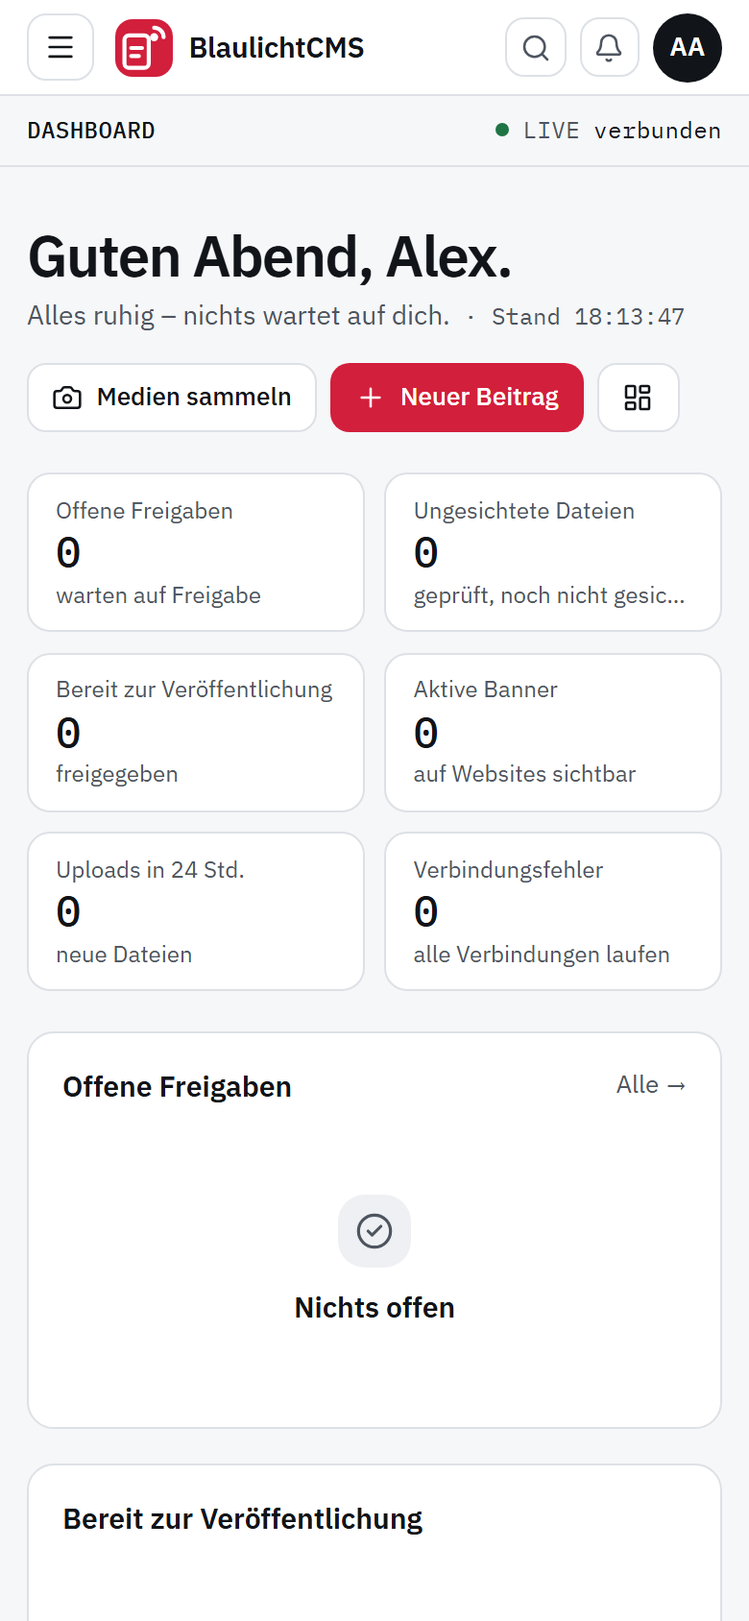
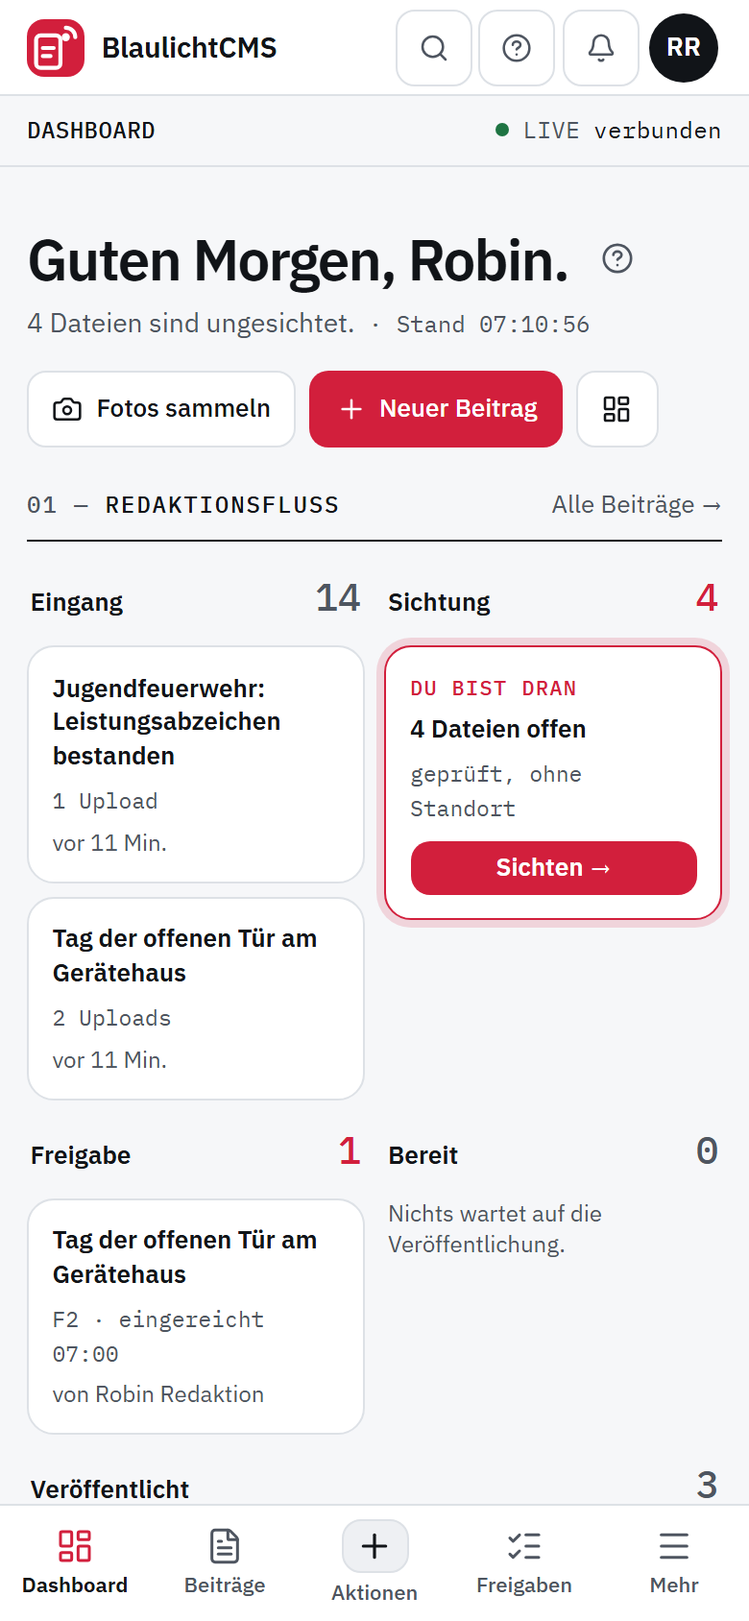
Version 0.7.0
Release mit neuem Docker-Image (compose.yaml geändert, #238): MIN_IMAGE_VERSION 0.7.0.
Inhalt: Prüfung von Stabilität, Sicherheit und Datenschutz (#228–#249) und Überarbeitung der
Bedienung (#250–#272) – Navigation nach Aufgaben, Freigaben-Liste, Suche, Hilfe je Seite,
Dashboard je Rolle, Checkliste „BlaulichtCMS startklar“, Einstellungen auf Unterseiten,
untere Leiste am Handy, einheitliche Listen und Formulare.

- Versionshinweise release-notes/v0.7.0.md mit Anleitung für das Image-Update über den
  Update-Helfer (Einstellungen → Updates, „Image-Update auf 0.7.0 anstoßen“) und Liste
  „Nach dem Update“.
- README: Funktionen ergänzt (Datenschutz-Prüfung in Einsatzliste und Bildvorlagen,
  Zwei-Faktor-Pflicht sofort, Zugangsdaten an ihr Ziel gebunden, Löschfristen, Leerzustände,
  Akzent, Fenstertitel), Badge 0.7.0, Einblicke mit neuen Bildern (Freigaben, Suche,
  Einstellungen, startklar, Handy-Dashboard, Stichwörter & Regeln); alle Bilder der
  Oberfläche aus einer Testinstanz mit fiktiven Daten neu aufgenommen. WordPress-Seiten und
  Warnentwurf-PDF unverändert (Bridge und PDF ohne Änderung).
- Screenshots des Installationsdialogs (PWA) mit der neuen Navigation, gleiche Größen.
- docs/technik.md „Teststand und Grenzen“: rund 780 Server-Tests, Browsertests, lokaler
  Release-Check (Fokus-Check aller Ansichten, dunkler Modus), Stand des Update-Helfers,
  internes Presse-Postfach.
- build-release: Installationszeile nennt bei neuem Image zuerst den Update-Helfer.

diff --git a/release-notes/v0.7.0.md b/release-notes/v0.7.0.md
@@ -1,0 +1,200 @@
+## BlaulichtCMS 0.7.0
+
+Großes Bedienungs- und Pflegeupdate mit **neuem Docker-Image**: neue Navigation nach Aufgaben, eine Freigaben-Liste
+für alle Arten, Suche über alles, Dashboard je Rolle, Checkliste „BlaulichtCMS startklar“, Einstellungen auf
+Unterseiten und eine untere Leiste am Handy – dazu Korrekturen aus einer Prüfung von Stabilität, Sicherheit und
+Datenschutz. Mit dem in 0.6.x eingerichteten **Update-Helfer** wird das Update in der App angestoßen (Anleitung unten).
+
+Beim Start werden die Datenbank-Migrationen 180, 181, 182, 185, 186, 190, 191, 200, 210, 225 und 230 automatisch
+angewendet; Daten, Konten und Rollen bleiben erhalten. Keine neuen Rechte (weiter 101 in 15 Bereichen, einige
+Bezeichnungen sind an die neuen Begriffe angepasst), BlaulichtCMS Bridge unverändert 0.9.1.
+
+### Navigation, Suche und Hilfe
+
+- **Sechs Bereiche nach Aufgaben** statt der bisherigen Gliederung (der Bereich „Kanäle“ ist aufgelöst):
+  - *Übersicht* – Dashboard, Freigaben, Benachrichtigungen, Reichweite, Aktivitäten
+  - *Redaktion* – Beiträge, Medien, Kalender, Einsatzliste, Banner, Designvorlagen, Quellen
+  - *Presse* – Presseanfragen, Pressemitteilungen, Presseverteiler, Textbausteine (jetzt eine eigene Seite)
+  - *Warnungen* – Warnentwürfe, Amtliche Warnungen
+  - *Einrichtung* – Websites, Verbindungen, Workflows (Reiter Workflows · Auslöser · Aktionen), Beitragsvorlagen,
+    Stichwörter & Regeln, Presse-Postfach, Upload-Seite
+  - *Verwaltung* – Benutzer und Rollen, Systemstatus, Medienverwaltung, Protokolle, Datenschutzanfragen, Einstellungen
+
+  Frühere Adressen (Lesezeichen, Links in älteren Benachrichtigungen und Mails) leiten samt Unterseite und Anker weiter.
+- **Suche mit `Strg` + `K`** (oder das Suchfeld in der Kopfzeile): Seiten, Schnellaktionen und Inhalte aller Bereiche,
+  die das Konto lesen darf – Beiträge, Sammlungen, Presseanfragen, Einsätze, Termine, Warnentwürfe, Personen –, dazu
+  einzelne Einstellungen und Hilfe-Abschnitte. Vorgangsnummern wie `P-2026-0001` springen direkt zum Vorgang.
+- **Hilfe an jeder Seite:** „?“ am Seitentitel mit Kurzbeschreibung und Link ins passende Kapitel, Hilfe-Knopf in der
+  Kopfzeile, Taste `?`. Neues Kapitel *Systemstatus, Protokolle und Aktivitäten* (32 Kapitel), verbindliches Glossar
+  unter *Hilfe → Begriffe*.
+- **Einheitliche Begriffe:** „Website“ und „soziale Netzwerke“ statt „Kanäle“, „Auslöser“ und „Aktionen“ statt
+  „Eingänge“ und „Ausgänge“, „Upload-Link“ und „Fotos sammeln“.
+- **Barrierefreiheit:** eigener Fenstertitel je Seite, genau eine Hauptüberschrift, Pflichtfelder auch für Screenreader
+  gekennzeichnet. Rot steht nur noch für die Hauptaktion und Handlungsbedarf – Auswahl, Schritte und Ansichtsschalter
+  sind neutral.
+
+### Übersicht: Freigaben, Benachrichtigungen, Dashboard
+
+- **Eine Freigaben-Liste für alle Arten** unter *Übersicht → Freigaben*: Beiträge, Banner, Einsatzliste, Warnentwürfe,
+  Antworten an die Presse und Freigaben aus Workflows – nur Arten, für die das Konto freigeben darf, mit Filter nach Art
+  und Sortierung. Was das Vier-Augen-Prinzip sperrt, steht ausgegraut mit Grund dabei. „Prüfen →“ öffnet die gewohnte
+  Prüfansicht. Darunter **Bereit zur Veröffentlichung**: Freigegebenes, das noch veröffentlicht bzw. versandt werden
+  muss. Der Zähler am Menüpunkt zählt beides.
+- **Eingereichte Banner melden sich jetzt bei der Freigabe** (Glocke, Push, E-Mail) wie Beiträge und Einsätze.
+- **Benachrichtigungen gebündelt und erledigt:** eine Meldung je Art („14 Einträge warten auf Freigabe“), der Link führt
+  genau zum Vorgang bzw. zur gefilterten Liste, nach der Entscheidung zählt die Meldung bei niemandem mehr als
+  ungelesen. Welche Arten per Glocke, Push oder E-Mail kommen, wählt jede Person in einer Tabelle unter *Mein Konto*.
+- **Dashboard je Rolle:** mitgelieferte Standardansicht für Administration, Redaktion, Freigabe, Veröffentlichung,
+  Presse, Warnrollen und Lesezugriff ohne doppelte Kacheln. Neue Kacheln: *Meine Entwürfe*, *Nächste Termine* (mit
+  Presse-Fristen), *Meine Presseanfragen*, *Warnungen*, *Einsatzliste*, *Workflows mit Fehlern*, Kennzahlen *Termine
+  heute* und *Dienste*. Leere Kacheln erscheinen als leise Zeile mit der nächsten Aktion.
+- **Checkliste „BlaulichtCMS startklar“** auf dem Dashboard der Administration: Organisation, öffentliche Adresse mit
+  HTTPS und Reverse Proxy, verantwortliche Stelle mit Datenschutzerklärung und Impressum, E-Mail-Versand mit Testmail,
+  Bundesland, Sicherung außer Haus mit Probe-Wiederherstellung, Einladungen, Update-Helfer, Zwei-Faktor, Website,
+  Testbeitrag. Den Stand erkennt BlaulichtCMS selbst, jeder Punkt verlinkt an die richtige Stelle und lässt sich
+  ausblenden (wieder einblenden: *Einstellungen → Organisation*). Neue Konten sehen einmal eine Begrüßung mit den
+  ersten Schritten ihrer Rolle.
+- **Aktivitäten** als lesbare Sätze für alle Aktionen (auch Presse, Einsatzliste, Kalender), Bereiche je Modul, Links
+  nur auf Objekte, die es noch gibt.
+
+### Redaktion
+
+- **Einheitliche Listen:** Suche, Reiter, Filter als Chips und Trefferzahl in jeder Liste; Suche und Filter stehen in der
+  Adresse – Zurück und Lesezeichen zeigen dieselbe Auswahl. Die Beitragsliste zeigt Website und soziale Netzwerke als
+  Ziele samt geplantem Zeitpunkt, die Einsatzliste eine kompakte Zeile je Eintrag.
+- **Beitrag:** „Nächster Schritt“ zeigt den Weg Text → Medien (Sichtung, Übernahme) → Alternativtexte → Ziele →
+  Einreichen; vor dem Einreichen eine Prüfliste mit denselben Prüfungen wie bei Freigabe und Veröffentlichung; Vorschau je
+  Netzwerk; eine Speichern-Leiste auf allen Bildschirmgrößen.
+- **Sichtung:** „Überspringen / Zurückstellen / Auswählen“ stehen fest unten im Fenster und sind ohne Scrollen
+  erreichbar; ab 1100 px Breite Vorschau und Angaben nebeneinander.
+- **Am Handy:** untere Leiste mit *Dashboard*, *Beiträge*, *Freigaben* (je nach Recht), **＋ Aktionen** (Fotos sammeln,
+  Sichten, Neuer Beitrag, Neue Erstmeldung, Anfrage erfassen) und *Mehr* statt der langen Menü-Schublade; Tabellen
+  werden zu Karten, alle Bedienelemente sind mindestens 40 × 40 px groß.
+- **Kalender:** Presse-Fristen mit dem Thema zuerst, Vorgangsnummer im Detail.
+- Dateiauswahl überall als Knopf statt als unformatiertes Dateifeld.
+
+### Presse
+
+- **Anfragen per Telefon oder vor Ort:** Hauptaktion **„Antwort festhalten“** – Antwort und Status „beantwortet“ in einem
+  Schritt.
+- **Textbausteine** als eigene Seite unter *Presse → Textbausteine*.
+- **Presseverteiler:** Herkunft und Rechtsgrundlage (öffentliche Redaktionsadresse, Einwilligung mit Datum oder andere
+  Grundlage mit Nachweis) sind beim Anlegen, Ändern und Importieren Pflicht; Wiedervorlage „Zu prüfen“ für Kontakte
+  ohne Angabe oder lange ohne Versand; nach einer Abmeldung bleibt nur ein Sperrvermerk. Jede Pressemitteilung trägt
+  in der Fußzeile die verantwortliche Stelle und den Link zur Datenschutzerklärung.
+- **Löschfristen:** auch Anfragen, die nie auf „erledigt“ gesetzt wurden, werden nach der Frist gelöscht (mit Ankündigung,
+  Filter „Löschung angekündigt“); Versandprotokolle der Pressemitteilungen nach 12 Monaten (Zähler bleiben).
+
+### Einrichtung und Verwaltung
+
+- **Einstellungen auf Unterseiten** unter *Verwaltung → Einstellungen*: Organisation, Datenschutz & Recht, Löschfristen,
+  Medien & Upload, Redaktion & Freigabe, E-Mail & Push, Sicherheit, Sicherung, Updates & Wartung, Workflows, System – je
+  mit einer Speichern-Leiste und Rückfrage beim Verlassen. „Einstellung finden“ springt direkt zum Feld. Alle Löschfristen
+  samt „Was würde gelöscht?“ stehen auf einer Seite, SMTP bzw. Microsoft 365 samt Testmail an einer Stelle. Die
+  persönliche Darstellung (hell/dunkel, Animationen, kompakte Tabellen) liegt unter *Mein Konto*.
+- **Formulare:** „Speichern“ und „Anlegen“ bleiben bedienbar und nennen fehlende Angaben direkt am Feld, statt
+  stumm gesperrt zu sein.
+- **Workflows aus Vorlage:** Jede Vorlage nennt vor dem Anlegen ihre Voraussetzungen (z. B. FE2-Verbindung, Website,
+  Bildvorlage) mit Stand und Weg zum Einrichten; einsatzbereite Vorlagen stehen zuerst.
+- **Verbindungen nach Richtung:** *Eingehend* (FE2, Feuersoftware Connect, amtliche Warnungen) und *Veröffentlichen*
+  (soziale Netzwerke, Websites mit Verweis auf ihre Seite) – in der Liste wie im Dialog „Neue Verbindung“.
+- **Stichwörter & Regeln:** kompakte Tabelle mit Suche und Filtern statt einzelner Karten, Anlegen als Dialog, Lagefragen
+  und Regeln je Zeile aufklappbar.
+
+### Stabilität
+
+- Kalender: „Serie verschieben“ nimmt ausgelassene und geänderte Einzeltermine mit; iCal-Quellen verstehen jährliche
+  Regeln, markieren nicht unterstützte Regelteile, halten das Serienende und überspringen einzelne fehlerhafte Termine.
+- Presse-Postfach: Abruf Mail für Mail mit gespeichertem Stand – eine fehlerhafte Mail wird als „nicht übernommen“
+  protokolliert und hält den Abruf nicht mehr auf; geringer Speicherbedarf auch bei großen Anhängen; Absendernamen mit
+  Komma und Anzeigenamen werden einheitlich ausgewertet.
+- Texte für soziale Netzwerke und Workflow-Vorlagen werden an der Zeichengrenze gekürzt, ohne Emojis zu zerschneiden.
+- Ausgehende Abrufe haben eine Gesamtfrist und eine Größengrenze; RSS-, Warn- und Kalenderquellen entfernen Steuerzeichen
+  aus Fremdtext.
+- Sicherung: Bei vollem Datenträger bricht die Sicherung sauber ab, Prüfsummen werden gestreamt, der Zeitplan überspringt
+  die Sommerzeit-Lücke nicht mehr.
+- Einsatzliste-Import und Workflow-Bedingungen: ungültige Daten (z. B. 31.04.) werden erkannt, Zeilennummern stimmen,
+  Zeitpunkte werden als Zeitpunkte verglichen.
+
+### Sicherheit und Datenschutz
+
+- Gespeicherte Zugangsdaten gelten nur für das Ziel, für das sie eingegeben wurden: Presse-Postfach (Server, Port,
+  Benutzer), Mastodon (Instanz) und Bluesky (Server).
+- Das Presse-Postfach verbindet sich wie Feeds, Kalender-Abos und Update-Prüfung nur mit öffentlichen Adressen und den
+  üblichen IMAP-Ports; interne Ziele lassen sich gezielt freigeben.
+- Eine eingeschaltete Zwei-Faktor-Pflicht gilt sofort, auch für bestehende und gemerkte Sitzungen.
+- Konten reaktivieren und entsperren nur innerhalb der eigenen Rechte; CSV-Exporte sind gegen Formeln in Zellen
+  geschützt; das ClamAV-Image ist per Digest festgelegt.
+- Die Datenschutz-Prüfung gilt auch für die Einsatzliste und für Bilder aus Vorlagen (sie erben die Markierungen ihrer
+  Quellbilder). Aufträge der Einsatzliste an die Website behalten nach dem Abschluss keine Inhaltskopie mehr.
+- Datenschutzanfragen durchsuchen jetzt alle Bereiche – auch Presse-Mails samt CC und Anhangnamen, Versandprotokolle,
+  Kalender, Einsatzliste und Vorlagen; die Auskunft enthält Presseanfragen mit Mails und Anhängen.
+- Push und E-Mail-Benachrichtigungen tragen standardmäßig nur die Art der Meldung und einen Link.
+- Sicherung außer Haus: Aufbewahrung passend zur dokumentierten Frist (Standard 7 Tage / 4 Wochen / 3 Monate),
+  Hinweis auf frühere Ziele, auf denen noch Sicherungen liegen; Reste der Probe-Wiederherstellung werden entfernt.
+- Datenschutz-Dokumentation sowie Vorlagen für Verarbeitungsverzeichnis, DSFA und Datenschutzerklärung decken alle
+  Module und Drittlandempfänger ab.
+
+### So spielst du das Update ein
+
+Diese Version braucht ein **neues Docker-Image** (geändert hat sich `compose.yaml`). Mit dem in 0.6.x eingerichteten
+Update-Helfer stößt du es in der App an – der Gang an den Host entfällt.
+
+1. In BlaulichtCMS (Stand 0.6.2) unter *Verwaltung → Einstellungen*, Abschnitt **Updates**, auf **„Jetzt prüfen“**
+   klicken (oder auf die automatische Prüfung warten). Es erscheint „Update verfügbar: Version 0.7.0“ mit diesen
+   Hinweisen und darunter die Karte **„Neues Docker-Image nötig“** („Version 0.7.0 braucht mindestens Image 0.7.0, der
+   Container läuft mit Image 0.6.1“).
+2. In der Karte **„Image-Update auf 0.7.0 anstoßen“** klicken, die Rückfrage mit **„Image-Update anstoßen“**
+   bestätigen und das Passwort (mit Zwei-Faktor-Code) eingeben. Nötig ist das Recht „Updates einstellen und
+   installieren“.
+3. Oben im Abschnitt erscheint der Fortschritt mit Protokollauszug. Der Helfer prüft das signierte Release, baut das
+   Image (einige Minuten), schaltet den Wartungsmodus ein, sichert alles und wechselt. Während Sicherung und Wechsel ist
+   BlaulichtCMS einige Minuten nicht erreichbar; danach lädt die Seite die neue Oberfläche.
+4. Prüfen: Unter *Verwaltung → Einstellungen → Updates & Wartung* steht als laufende Version **0.7.0 (aus dem
+   Image)**.
+
+Startet die neue Version nicht sauber, kehrt der Helfer automatisch zum bisherigen Stand zurück; Daten, Einstellungen
+und `.env` bleiben erhalten. Das ist das **erste Image-Update über den Helfer** auf einem echten Host – den Verlauf zeigt
+am Host `/var/log/blaulichtcms-update.log`.
+
+**Ohne Helfer oder falls der Knopf fehlt:** am Docker-Host `sudo bash /opt/apps/blaulichtcms/install.sh` ausführen (bei
+einem anderen Installationsordner dessen `install.sh`) – mit demselben Ablauf samt Sicherung und Rückweg.
+
+### Nach dem Update
+
+- **Navigation:** Die Menüpunkte sind neu geordnet (Übersicht der sechs Bereiche oben). Alte Lesezeichen funktionieren
+  weiter. Wer Updates sucht: *Verwaltung → Einstellungen → Updates & Wartung*.
+- **Dashboard:** Hast du dein Dashboard früher angepasst, bleibt deine Ansicht. Die neue Standardansicht deiner Rolle –
+  bei der Administration mit der Checkliste „BlaulichtCMS startklar“ – bekommst du über *Anpassen* →
+  **„Standard wiederherstellen“**.
+- **Presseanfragen:** Anfragen, die nie auf „erledigt“ gesetzt wurden (neu, in Bearbeitung, beantwortet) und seit
+  12 Monaten ohne Aktivität sind, bekommen eine Löschankündigung (Benachrichtigung an „Presseanfragen bearbeiten“,
+  Filter „Löschung angekündigt“) und werden frühestens 30 Tage danach gelöscht. Jede Änderung, Notiz oder Mail setzt die
+  Frist zurück. Einstellung: *Einstellungen → Löschfristen → „Nicht erledigte Presseanfragen“* (0 = nie).
+- **Presseverteiler:** Bestehende Kontakte haben noch keine Rechtsgrundlage und stehen unter *Presse → Presseverteiler*
+  im Filter **„Zu prüfen“** – Herkunft und Rechtsgrundlage nachtragen. Bereits abgemeldete Kontakte wurden auf den
+  Sperrvermerk (Adresse, Zeitpunkt, Rechtsgrundlage) reduziert.
+- **Verantwortliche Stelle und Datenschutzerklärung** unter *Einstellungen → Datenschutz & Recht* ausfüllen: Sie stehen
+  jetzt in der Fußzeile jeder Pressemitteilung; fehlen sie, warnt „Prüfen und senden“.
+- **Push und E-Mail sind standardmäßig knapp:** Sie nennen nur die Art der Meldung und einen Link (kein Stichwort, Ort
+  oder Betreff mehr). Wer die Einzelheiten wieder möchte: *Einstellungen → E-Mail & Push → „Inhalt außerhalb von
+  BlaulichtCMS“* (je für Push und E-Mail).
+- **Presse-Postfach auf einem internen Mailserver** (private Adresse) oder an einem anderen Port als 143/993: den Server
+  unter *Einstellungen → Sicherheit → „Interne Ziele freigeben“* eintragen, sonst schlägt der Abruf fehl.
+- **Mastodon und Bluesky:** Wer Instanz bzw. Server (oder das Konto) einer Verbindung ändert, muss die Zugangsdaten neu
+  eingeben – die gespeicherten werden dabei verworfen.
+- **Zwei-Faktor-Pflicht:** Gilt sie (Einstellung oder Rolle) für ein Konto ohne zweiten Faktor, endet dessen Sitzung jetzt
+  sofort – auch eine gemerkte; nach der nächsten Anmeldung wird der zweite Faktor eingerichtet.
+- **Sicherung außer Haus:** Wer die bisherigen Standardwerte (7/4/6) nicht geändert hatte, behält jetzt 3 statt
+  6 Monatssicherungen; ältere Monatssicherungen auf dem NAS werden beim nächsten Hochladen gelöscht. Höhere Werte
+  wurden auf die neuen Grenzen (90 Tage / 52 Wochen / 24 Monate) gesetzt.
+- **SMTP bzw. Microsoft 365** stehen jetzt unter *Einstellungen → E-Mail & Push*; den **Wartungsmodus** schaltet man nur
+  noch unter *Verwaltung → Systemstatus* (*Updates & Wartung* zeigt den Zustand und die Vorabprüfung).
+- **Einsatzliste:** Einträge, die vor dem Update freigegeben wurden und markierte Bilder (oder offene
+  Gesichtsvorschläge) haben, fragen beim Veröffentlichen nach der Datenschutz-Bestätigung.
+
+### Grenzen
+
+- Das Image-Update über den Update-Helfer ist mit Docker-Stellvertreter trocken geprüft und der Helfer ist auf dem
+  Zielhost eingerichtet; ein vollständiger Lauf mit echtem Docker-Build passiert mit diesem Update zum ersten Mal.
+- Details: [Teststand und Grenzen](https://github.com/thisislennard/BlaulichtCMS/blob/main/docs/technik.md#teststand-und-grenzen).

diff --git a/README.md b/README.md
@@ -9,7 +9,7 @@ Fotos per Link vom Handy sammeln · sichten · Beiträge schreiben · Fassung fr
 [![CI](https://github.com/thisislennard/BlaulichtCMS/actions/workflows/ci.yml/badge.svg)](https://github.com/thisislennard/BlaulichtCMS/actions/workflows/ci.yml)
 [![Sicherheitsprüfung](https://github.com/thisislennard/BlaulichtCMS/actions/workflows/security.yml/badge.svg)](https://github.com/thisislennard/BlaulichtCMS/actions/workflows/security.yml)
 [![Lizenz: GPL-3.0](https://img.shields.io/badge/Lizenz-GPL--3.0--or--later-blue)](LICENSE)
-![Version](https://img.shields.io/badge/Version-0.6.2-D21F3C)
+![Version](https://img.shields.io/badge/Version-0.7.0-D21F3C)
 ![TypeScript](https://img.shields.io/badge/TypeScript-7-3178C6?logo=typescript&logoColor=white)
 ![Node.js](https://img.shields.io/badge/Node.js-26-5FA04E?logo=nodedotjs&logoColor=white)
 ![PostgreSQL](https://img.shields.io/badge/PostgreSQL-18-4169E1?logo=postgresql&logoColor=white)
@@ -19,10 +19,10 @@ Fotos per Link vom Handy sammeln · sichten · Beiträge schreiben · Fassung fr
 
 </div>
 
-![Dashboard von BlaulichtCMS](docs/bilder/dashboard.webp)
+![Dashboard von BlaulichtCMS (Rolle Redaktion)](docs/bilder/dashboard.webp)
 
 > [!NOTE]
-> **Version 0.6.2 – noch vor dem ersten Produktivbetrieb.** Der Funktionsumfang ist vollständig und automatisiert
+> **Version 0.7.0 – noch vor dem ersten Produktivbetrieb.** Der Funktionsumfang ist vollständig und automatisiert
 > getestet; was mit echten Fremdsystemen geprüft ist und was noch nicht, steht unter
 > [Teststand und Grenzen](docs/technik.md#teststand-und-grenzen). Alle Screenshots stammen aus einer Testinstanz mit fiktiven Daten.
 
@@ -93,7 +93,8 @@ flowchart LR
 - **Speicherübersicht:** Verbrauch je Sammlung, Ordner und Art, Papierkorb, Quarantäne und ZIP-Downloads, freier Platz
   mit Warnschwelle; Frist und Höchstgröße der ZIP-Downloads einstellbar.
 - **Abgebildete Personen:** Markierungen für erkennbare Personen, Verletzte, Kennzeichen und sensible Inhalte;
-  markierte Medien verlangen vor der Freigabe eine bewusste Datenschutz-Prüfung.
+  markierte Medien verlangen vor der Freigabe eine bewusste Datenschutz-Prüfung – bei Beiträgen, in der Einsatzliste
+  und bei Bildern aus Vorlagen (sie erben die Markierungen ihrer Quellbilder).
 - **Unkenntlich machen:** Bereiche verpixeln, weichzeichnen oder abdecken, Kennzeichen mit einem Klick (Werkzeug „Kennzeichen anklicken“: Bereich in Kennzeichenform, Größe wählbar), Bilder zuschneiden, Videos ohne Ton
   veröffentlichen – das Original bleibt unverändert.
 - **Gesichter automatisch vorschlagen:** lokale Gesichtssuche (YuNet, MIT) schlägt Bereiche zum Unkenntlichmachen vor –
@@ -298,6 +299,8 @@ flowchart LR
   bestandener Testmail). Push und E-Mail tragen standardmäßig nur die Art der Benachrichtigung und einen Link –
   Stichwort, Ort oder Betreff bleiben in BlaulichtCMS, Einzelheiten lassen sich je Zustellweg (Push, E-Mail) zuschalten.
 - **App für Handy und Computer:** installierbar (PWA) auf Android, iPhone/iPad und am Computer (Chrome, Edge, Safari am Mac – „Zum Dock hinzufügen“), mit eigenem Fenster, Push-Mitteilungen des Betriebssystems, Zähler ungelesener Benachrichtigungen am App-Symbol und Schnellzugriffen auf Neuer Beitrag, Fotos sammeln und Freigaben; „App installieren“ im Benutzermenü.
+- **Leerzustände mit nächstem Schritt:** leere Kacheln als leise Zeile, leere Seiten mit der passenden Aktion
+  (z. B. „Neuer Beitrag“, „Fotos sammeln“).
 - **Einheitliche Listen:** jede Liste mit derselben Werkzeugleiste (Suche, Reiter, Filter als Chips, Trefferzahl); Suche
   und Filter stehen in der Adresse – Zurück, Lesezeichen und Links aus Benachrichtigungen zeigen dieselbe Auswahl. Die
   Beitragsliste zeigt Website und soziale Netzwerke als Ziele samt geplantem Zeitpunkt; die Einsatzliste eine Zeile je Eintrag.
@@ -307,8 +310,10 @@ flowchart LR
 - **Schnell bedienbar:** Suche mit `Strg` + `K` über Seiten, Schnellaktionen, Inhalte aller Bereiche mit Leserecht,
   Einstellungen und Hilfe (Vorgangsnummern wie `P-2026-0001` springen direkt zum Vorgang); „?“ an jedem Seitentitel
   und in der Kopfzeile führt zum passenden Hilfe-Kapitel; Navigation nach Aufgaben (Übersicht, Redaktion, Presse,
-  Warnungen, Einrichtung, Verwaltung); vollständig per Tastatur nutzbar, heller und dunkler Modus, Design „Leitstand“
-  für draußen und nachts.
+  Warnungen, Einrichtung, Verwaltung) mit höchstens sieben Punkten je Bereich, frühere Adressen leiten weiter;
+  verbindliche Begriffe (Glossar in der Hilfe); vollständig per Tastatur nutzbar, heller und dunkler Modus (je Konto
+  unter *Mein Konto*), Design „Leitstand“ für draußen und nachts mit einem Akzent – Rot nur für die Hauptaktion und
+  Handlungsbedarf.
 - **Eine Zeitzone für alles:** Anzeigen und Eingaben (Listen, Verläufe, Fristen, Ablauf von Upload-Links, geplante
   Veröffentlichung, Kalender, Begrüßung, Platzhalter `{datum}`, Zeitpläne) folgen der Zeitzone unter *Einstellungen →
   Organisation* (Standard Europe/Berlin), nicht der des Geräts; Sommer-/Winterzeit automatisch.
@@ -316,7 +321,7 @@ flowchart LR
   Medien & Upload, Redaktion & Freigabe, E-Mail & Push, Sicherheit, Sicherung, Updates & Wartung, Workflows, System)
   mit einer Speichern-Leiste und Rückfrage beim Verlassen; „Einstellung finden“ springt direkt zum Feld. Alle
   Löschfristen samt Probelauf auf einer Seite, SMTP und Microsoft 365 samt Testmail an einer Stelle.
-- **Formulare für alle:** Pflichtfelder auch für Screenreader gekennzeichnet; „Speichern“ und „Anlegen“ bleiben
+- **Formulare für alle:** eigener Fenstertitel und genau eine Hauptüberschrift je Seite; Pflichtfelder auch für Screenreader gekennzeichnet; „Speichern“ und „Anlegen“ bleiben
   bedienbar und nennen fehlende Angaben direkt am Feld; lange Formulare (Einstellungen, Beitrag, Workflow,
   Bildvorlage, Upload-Seite, Presse-Postfach) mit einer gemeinsamen Speichern-Leiste und Rückfrage beim Verlassen.
 - **Hilfe-Center:** 32 Kapitel mit Volltextsuche direkt in der App.
@@ -330,7 +335,11 @@ flowchart LR
   angezeigt. Vergabe nur innerhalb der eigenen Rechte, Vorschau der Änderung vor dem Speichern, sofort wirksam;
   die Zwei-Faktor-Pflicht richtet sich nach den Rechten.
 - **Anmeldung:** Einladung per Link, Zwei-Faktor-Anmeldung mit Wiederherstellungscodes, erneute Bestätigung für
-  kritische Aktionen, Schutz vor gezieltem Aussperren.
+  kritische Aktionen, Schutz vor gezieltem Aussperren; eine eingeschaltete Zwei-Faktor-Pflicht gilt sofort, auch für
+  bestehende Sitzungen.
+- **Gespeicherte Zugangsdaten** (Presse-Postfach, Mastodon, Bluesky, SMTP, WebDAV) gelten nur für das Ziel, für das sie
+  eingegeben wurden; Abrufe (Feeds, Kalender-Abos, Presse-Postfach, Updates) gehen an interne Server nur nach Freigabe
+  unter *Einstellungen → Sicherheit*.
 - **Nachvollziehbar:** Aktivitätsprotokoll mit Hash-Kette gegen nachträgliche Änderungen, optional an Syslog;
   Aktivitäten als lesbare Sätze, nach Modul filterbar, mit Link zum betroffenen Objekt; Alarmierung bei
   auffälligen Ereignissen.
@@ -341,8 +350,10 @@ flowchart LR
   Anhangnamen), Versandprotokolle, Kalender, Einsatzliste und Vorlagen –, Export als ZIP mit Originalen sowie
   Presseanfragen samt Mails und Anhängen, Löschen oder Pseudonymisieren je Treffer. Ein Test stellt sicher, dass jede
   neue Tabelle mit Personenbezug abgedeckt oder begründet ausgenommen ist.
-- **Löschfristen** für Sammlungen, Upload-Links, Warnvorgänge, Einsatzmeldungen (FE2, Feuersoftware Connect), Presseanfragen und Protokolle – mit Vorschau „Was würde
-  gelöscht?“.
+- **Löschfristen** für Sammlungen, Upload-Links, Warnvorgänge, Einsatzmeldungen (FE2, Feuersoftware Connect),
+  Presseanfragen (auch nie erledigte, mit Ankündigung), Versandprotokolle der Pressemitteilungen, Aufträge der
+  Einsatzliste an die Website und Protokolle – alle auf einer Seite mit Vorschau „Was würde gelöscht?“; Kontakte im
+  Presseverteiler kommen nach einer Frist zur Wiedervorlage.
 - **Vorlagen** für Verarbeitungsverzeichnis und Datenschutz-Folgenabschätzung mit allen Modulen, Empfängern und
   Drittlandübermittlungen (Meta, X, Bluesky, Mastodon, Microsoft 365, Push-Dienste, GitHub) und Rechtsgrundlagen zur
   Prüfung durch die oder den Datenschutzbeauftragten.
@@ -357,7 +368,7 @@ flowchart LR
   Prüfung – mit eingerichtetem **Update-Helfer** lässt sich auch dieses Update in der App anstoßen (prüft das signierte
   Release, baut, sichert, wechselt, bei Fehler zurück; Fortschritt und Protokollauszug in der App), ohne dem Container
   Zugriff auf Docker zu geben. Ohne Helfer nennt die Seite die Schritte am Host (ein Aufruf des Installationsskripts).
-- **Sicherung:** täglich, verschlüsselt, auf Wunsch zusätzlich **außer Haus** auf ein NAS (WebDAV, mit Prüfsummenkontrolle und Aufbewahrung je Tag/Woche/Monat); **Probe-Wiederherstellung** in eine Wegwerf-Datenbank auf Knopfdruck und nach Zeitplan, mit Ergebnisprotokoll im Systemstatus.
+- **Sicherung:** täglich, verschlüsselt, auf Wunsch zusätzlich **außer Haus** auf ein NAS (WebDAV, mit Prüfsummenkontrolle und Aufbewahrung je Tag/Woche/Monat, Standard 7/4/3; Hinweis auf frühere Ziele, auf denen noch Sicherungen liegen); **Probe-Wiederherstellung** in eine Wegwerf-Datenbank auf Knopfdruck und nach Zeitplan, mit Ergebnisprotokoll im Systemstatus.
 - **Systemstatus:** Dienste, Speicher, Sicherungen, Probe-Wiederherstellung, Audit-Integrität, Wartungsmodus und
   Vorabprüfung vor Updates.
 - **Geprüft bei jeder Änderung:** Server-Tests gegen echtes PostgreSQL, Browsertests der Kernabläufe (Einrichtung,
@@ -371,12 +382,21 @@ flowchart LR
 <table>
   <tr>
     <td width="33%"><b>Upload am Handy</b><br/>ohne Konto, Fortschritt je Datei<br/><br/><img src="docs/bilder/upload-handy.webp" alt="Upload-Seite am Handy"/></td>
-    <td width="33%"><b>Sichtung</b><br/>Auswählen oder Überspringen<br/><br/><img src="docs/bilder/sichtung-handy.webp" alt="Sichtung am Handy"/></td>
-    <td width="33%"><b>Beitrag am Handy</b><br/>Status, Freigabe, bestätigte URL<br/><br/><img src="docs/bilder/beitrag-handy.webp" alt="Beitrag am Handy"/></td>
+    <td width="33%"><b>Sichtung</b><br/>Auswählen, Zurückstellen oder Überspringen<br/><br/><img src="docs/bilder/sichtung-handy.webp" alt="Sichtung am Handy"/></td>
+    <td width="33%"><b>Am Handy</b><br/>untere Leiste mit Schnellaktionen<br/><br/><img src="docs/bilder/dashboard-handy.webp" alt="Dashboard am Handy mit unterer Leiste"/></td>
+  </tr>
+  <tr>
+    <td colspan="2"><b>Freigaben</b><br/>eine Liste für alle Arten, darunter Freigegebenes, das noch wartet<br/><br/><img src="docs/bilder/freigaben.webp" alt="Freigaben-Liste über alle Arten"/></td>
+    <td><b>Beitrag am Handy</b><br/>nächster Schritt, Status, bestätigte URL<br/><br/><img src="docs/bilder/beitrag-handy.webp" alt="Beitrag am Handy"/></td>
   </tr>
   <tr>
     <td colspan="2"><b>Beitrag mit Freigabe</b><br/>Fassungen, Prüfsumme, Veröffentlichungen<br/><br/><img src="docs/bilder/beitrag.webp" alt="Beitrag mit Freigabe"/></td>
     <td><b>Sammlung</b><br/>Upload-Links mit QR-Code und Aushang<br/><br/><img src="docs/bilder/sammlung.webp" alt="Sammlung"/></td>
+  </tr>
+  <tr>
+    <td><b>Suche</b><br/><code>Strg</code> + <code>K</code> über alle Bereiche<br/><br/><img src="docs/bilder/suche.webp" alt="Suche über alle Bereiche"/></td>
+    <td><b>Einstellungen</b><br/>je Bereich eine Seite<br/><br/><img src="docs/bilder/einstellungen.webp" alt="Übersicht der Einstellungen"/></td>
+    <td><b>BlaulichtCMS startklar</b><br/>Checkliste nach der Installation<br/><br/><img src="docs/bilder/startklar.webp" alt="Checkliste BlaulichtCMS startklar"/></td>
   </tr>
   <tr>
     <td><b>Auf der Website</b><br/>veröffentlicht von der BlaulichtCMS Bridge<br/><br/><img src="docs/bilder/wordpress-beitrag.webp" alt="Beitrag auf WordPress"/></td>
@@ -386,7 +406,7 @@ flowchart LR
   <tr>
     <td><b>Warnentwurf am Handy</b><br/>Stichwort, Lagefragen, Vorschlag<br/><br/><img src="docs/bilder/warnentwurf-handy.webp" alt="Warnentwurf-Assistent am Handy"/></td>
     <td><b>Freigegebene PDF</b><br/>mit bestätigter Warnstufe und Prüfsumme<br/><br/><img src="docs/bilder/warnentwurf-pdf.webp" alt="PDF eines Warnentwurfs"/></td>
-    <td><b>Regeln pflegen</b><br/>versioniert, fachlich freigegeben<br/><br/><img src="docs/bilder/warnstufen-regeln.webp" alt="Pflege der Warnstufen-Regeln"/></td>
+    <td><b>Stichwörter &amp; Regeln</b><br/>kompakte Tabelle, Lagefragen und Regeln je Zeile<br/><br/><img src="docs/bilder/stichwoerter-regeln.webp" alt="Stichwörter mit Lagefragen und Regeln"/></td>
   </tr>
   <tr>
     <td colspan="2"><b>Workflows</b><br/>geführt in drei Schritten: Wenn – Nur wenn – Dann<br/><br/><img src="docs/bilder/workflow.webp" alt="Workflow in der geführten Ansicht"/></td>

diff --git a/docs/technik.md b/docs/technik.md
@@ -340,10 +340,13 @@ nicht archivierten Beiträge (bei 4 800 Beiträgen ohne Freigaben 46 ms) – Bei
 
 ## Teststand und Grenzen
 
-**Automatisiert (bei jedem Push in der CI):** Typprüfung, rund 600 Server-Tests gegen echtes PostgreSQL (inklusive
+**Automatisiert (bei jedem Push in der CI):** Typprüfung, rund 780 Server-Tests gegen echtes PostgreSQL (inklusive
 Video-Verarbeitung mit ffmpeg), Build, PHP-Lint des Plugins, Probelauf mit Docker Compose (Rollen, Schlüsselwechsel,
 Audit-Kette), Abhängigkeits-, Image- und Secret-Scan sowie Browsertests der Kernabläufe mit Playwright/Chromium
-(Einrichtung mit Zwei-Faktor, Beitrag bis zur Freigabe, Workflow aus Vorlage, Rollen, Dashboard, Fokus-Check).
+(Einrichtung mit Zwei-Faktor, Beitrag bis zur Freigabe, Workflow aus Vorlage, Rollen, Dashboard, Sichtung ohne Scrollen,
+Listen und Handy mit Touch-Zielen, Fokus-Check auf wichtigen Ansichten). Vor jedem Release lokal: Fokus-Check über alle
+Ansichten und Dialoge (inklusive Seitentitel, Überschriften und Pflichtfeldern) und eine Durchsicht der Hauptseiten im
+dunklen Modus bei 1440 und 390 px (0.7.0: Kontoschema „Dunkel“, alle Seiten dunkel, kein seitlicher Überlauf).
 Wöchentlich prüft ein Workflow alle festgelegten Versionen und meldet Neuerungen in einem Issue. Dazu kommen Abnahmetests über Browser, Container und ein
 Test-WordPress (`test/e2e/`, Upload-Link bis Website, fortsetzbarer Upload, Warnentwurf, fehlgeschlagenes Update mit
 Rückweg, Wiederherstellung, PostgreSQL-Upgrade). Das Update aus der App ist mit dem echten Supervisor durchgespielt
@@ -382,14 +385,18 @@ Ergebnisse je Verbindung: [docs/integrationen.md](integrationen.md).
 - Update-Helfer für Image-Updates aus der App (#226): Anfrage, Statusauswertung, Rate-Limit und Protokoll mit Tests
   (`server/test/host-update.test.ts`); Helfer und `install.sh --unattended` mit Docker-Stellvertreter trocken getestet
   (Erfolg, Rückweg, Abbruch vor dem Wechsel, abgelehnte Anfragen, falsche Signatur, Neustart mit neuer `install.sh`).
-  Der Helfer ist noch nicht auf einem echten Host mit systemd gelaufen: systemd-Units, Path-Unit, `setpriv`, die Härtung
-  und ein Image-Update aus der App mit echtem Docker-Build auf dem Zielhost noch prüfen.
+  Auf einem echten Host (RHEL-artig, SELinux im Modus Enforcing) sind Einrichtung, Path-Unit und die Anmeldung des
+  Helfers bei der App geprüft (0.6.1). Ein vollständiges Image-Update aus der App mit echtem Docker-Build steht noch
+  aus – erstmals mit dem Update auf 0.7.0; Verlauf in `/var/log/blaulichtcms-update.log`.
 - Sicherung außer Haus und Probe-Wiederherstellung (#212): gegen einen WebDAV-Stellvertreter mit echtem TLS getestet;
   mit dem echten NAS (z. B. Synology „WebDAV Server“) und die zeitgesteuerte Probe auf dem Zielhost noch prüfen.
 - Freigabe aus der Push-Mitteilung (#216): Ob ein Gerät Aktionsknöpfe zeigt, entscheidet der Browser; auf echten
   Geräten (Android, iPhone, Windows, macOS) noch ansehen.
 - Gesichtsvorschläge (#214): Erkennungsrate und Rechenzeit auf echten Einsatzfotos und auf der Zielhardware (2 Kerne)
   messen; geprüft ist das Modell bisher auf gemeinfreien Testfotos und einem Entwicklungsrechner.
+- Presse-Postfach auf internen Mailservern (#234): Die Zielprüfung (nur öffentliche Adressen und Ports 143/993, sonst
+  Freigabe unter *Einstellungen → Sicherheit → Interne Ziele freigeben*) ist gegen IMAP-Stellvertreter getestet; mit
+  einem echten internen Mailserver noch prüfen.
 - Datenschutz: Angaben unter *Einstellungen → Datenschutz & Recht* ausfüllen, Verarbeitungsverzeichnis und DSFA mit den
   Vorlagen in [docs/datenschutz.md](datenschutz.md) erstellen.
 

diff --git a/docs/entwicklung.md b/docs/entwicklung.md
@@ -37,7 +37,7 @@ startet PostgreSQL) ist für den Container gedacht, funktioniert aber auch lokal
 | Ebene | Befehl | Inhalt |
 |---|---|---|
 | Typprüfung | `npm run typecheck` | Server und Oberfläche |
-| Unit + Integration | `TEST_DATABASE_URL=… npm test` | rund 600 Tests: Rechte, Krypto, SSRF, Fassungen, Upload, Warnentwürfe, Verbindungen, Workflows, Kalender, Presse, Einsatzliste, Import, Sicherheit – braucht ffmpeg und pdftotext |
+| Unit + Integration | `TEST_DATABASE_URL=… npm test` | rund 780 Tests: Rechte, Krypto, SSRF, Fassungen, Upload, Warnentwürfe, Verbindungen, Workflows, Kalender, Presse, Einsatzliste, Import, Sicherheit – braucht ffmpeg und pdftotext |
 | Kernabläufe | `node test/e2e/core-flows.mjs` | Ersteinrichtung mit Zwei-Faktor, Anmeldung mit Code, Beitrag anlegen → einreichen → freigeben (Vier-Augen), Workflow aus Vorlage anlegen und testen (frische Instanz nötig; läuft in der CI) |
 | Fokus-Test | `node test/e2e/focus-check.mjs` | Tippen in alle Textfelder und Dialoge ohne Fokusverlust (laufende Instanz nötig) |
 | Dashboard anpassen | `node test/e2e/dashboard-dnd.mjs` | Verschieben mit Maus, Finger (Touch-Emulation) und Tastatur, Abbrechen, Speichern, Vorlagen (Instanz mit den Testdaten des Fokus-Tests nötig) |
